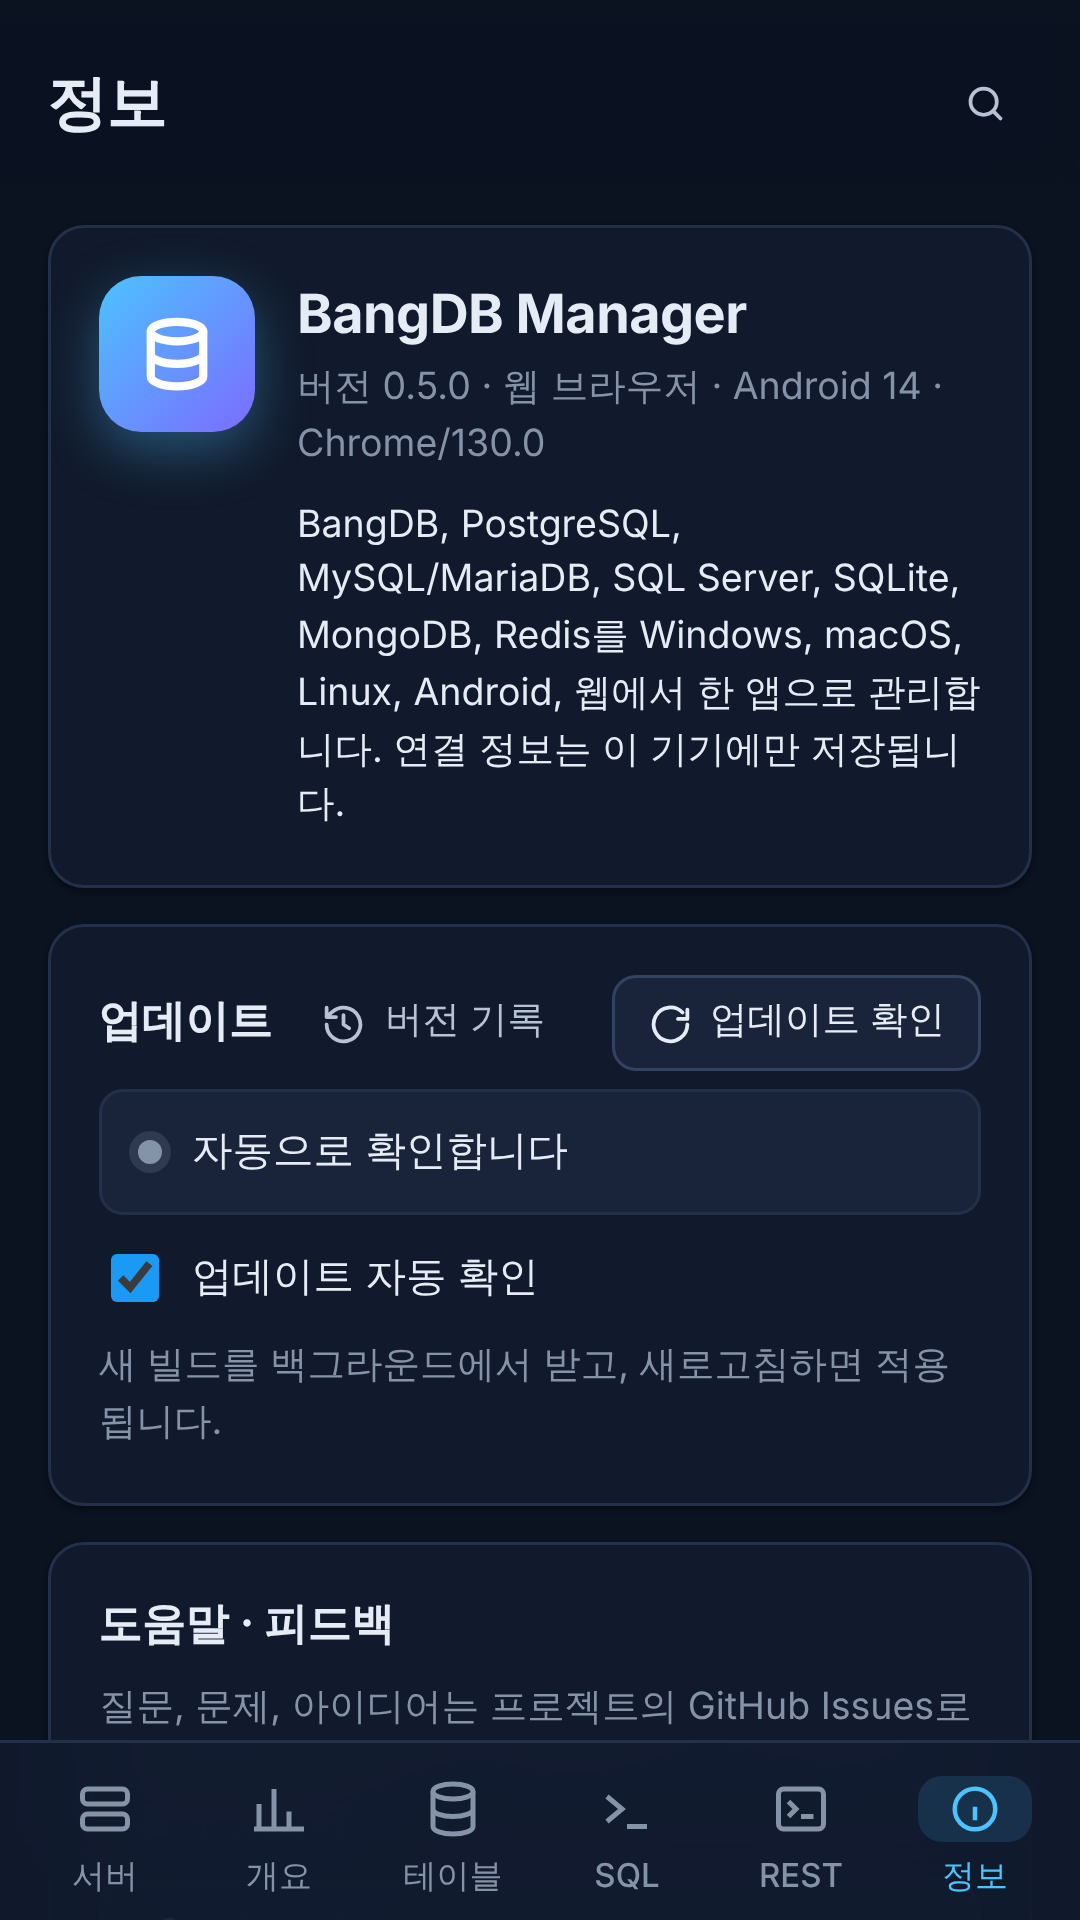
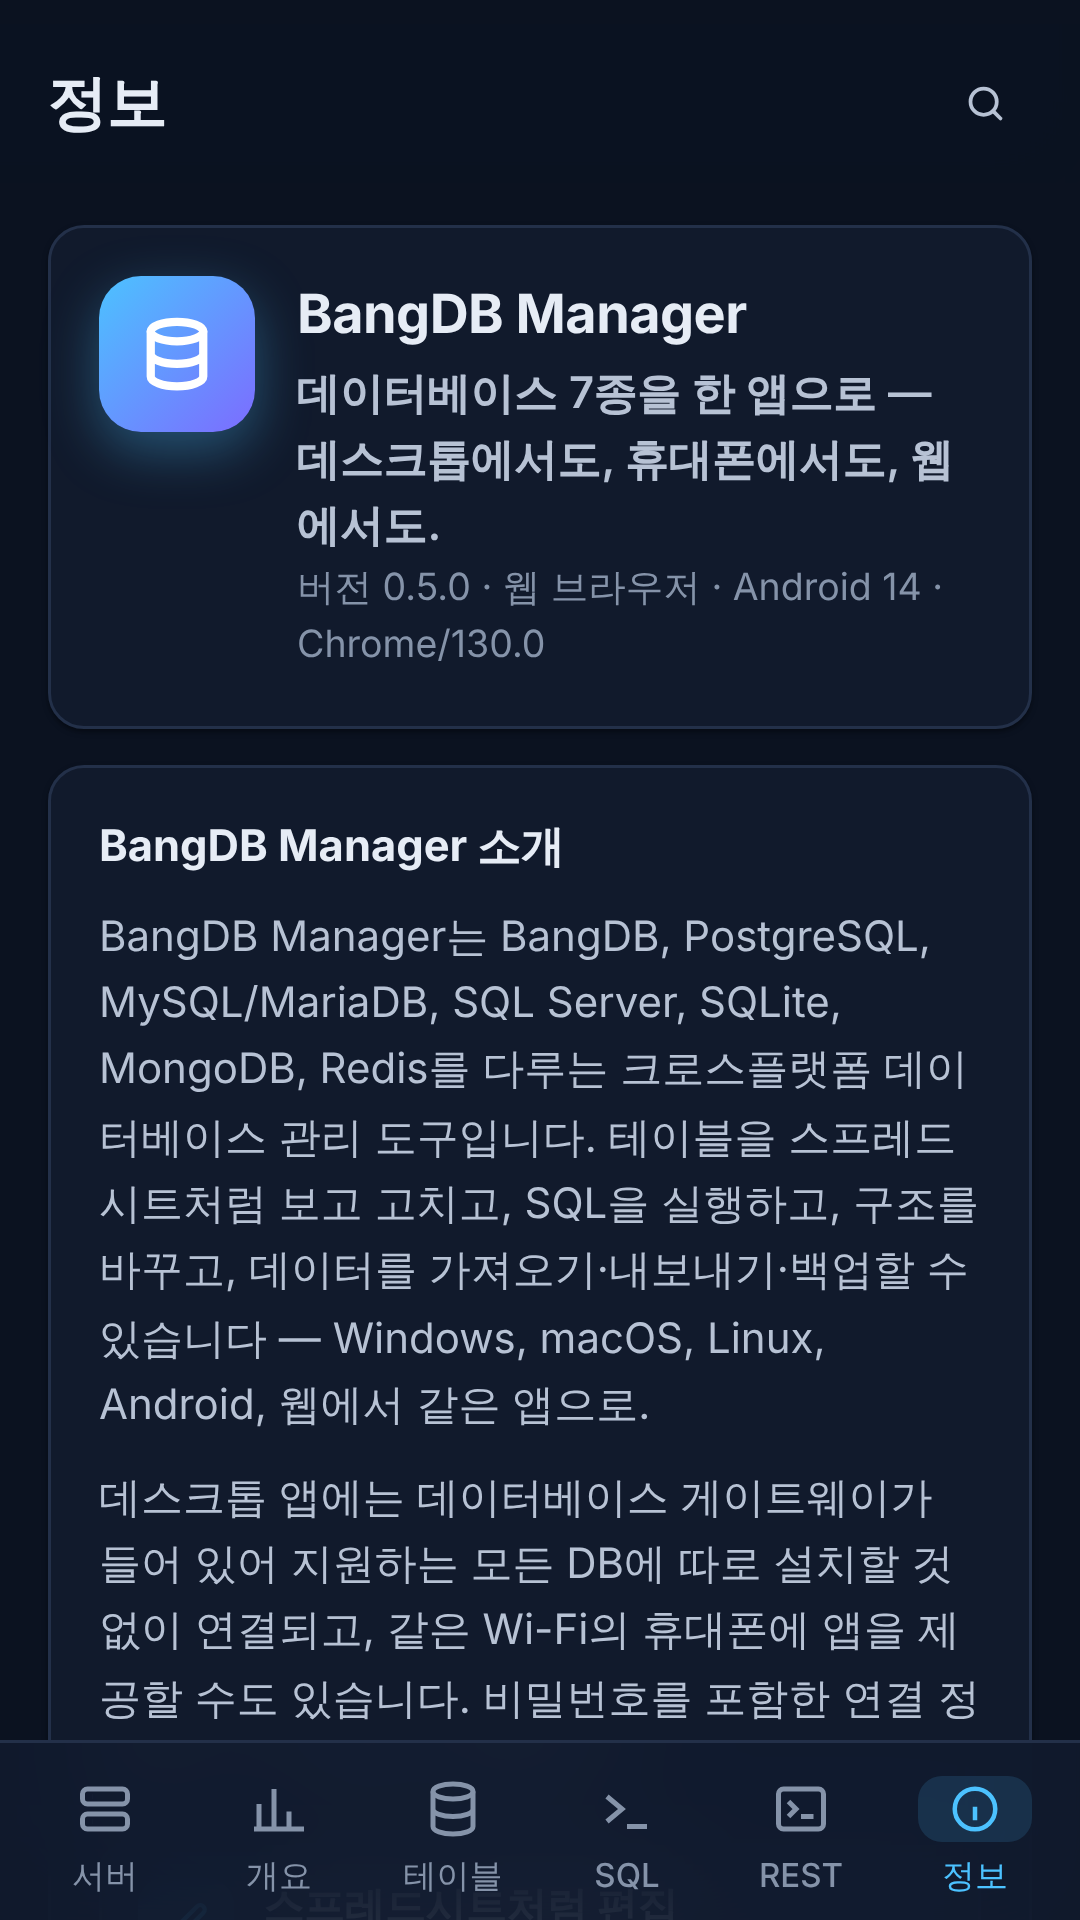
Describe the app on the About page, retake the store screenshots
- About: a tagline, two paragraphs on what the app does, eight feature
  tiles and the supported databases, in English with Korean text
- Store screenshot 08 is now this About screen (08-about.png) in both the
  English and Korean sets; all sets retaken with the current build
- README shows the English screenshots

Claude-Session: https://claude.ai/code/session_01A9NzuDcSjiniLXp6vE16Xp

diff --git a/src/i18n/ko/app.ts b/src/i18n/ko/app.ts
@@ -92,7 +92,6 @@ const ko: Record<string, string> = {
   "GitHub answered {status}": "GitHub 응답 {status}",
   "You are offline": "오프라인 상태입니다",
   "Version {v}": "버전 {v}",
-  "Manage BangDB, PostgreSQL, MySQL/MariaDB, SQL Server, SQLite, MongoDB and Redis from one app on Windows, macOS, Linux, Android and the web. Connection details stay on this device.": "BangDB, PostgreSQL, MySQL/MariaDB, SQL Server, SQLite, MongoDB, Redis를 Windows, macOS, Linux, Android, 웹에서 한 앱으로 관리합니다. 연결 정보는 이 기기에만 저장됩니다.",
   "Help & feedback": "도움말 · 피드백",
   "Questions, problems and ideas go to the project's GitHub Issues, where they are answered in public so others can find them too.": "질문, 문제, 아이디어는 프로젝트의 GitHub Issues로 보내 주세요. 공개적으로 답변하므로 다른 사람도 찾아볼 수 있습니다.",
   "Browse issues": "이슈 보기",
@@ -181,5 +180,24 @@ const ko: Record<string, string> = {
   "Some items are not objects": "객체가 아닌 항목이 있습니다",
   "Reading {table}…": "{table} 읽는 중…",
   "{table}: {n} rows": "{table}: {n}행",
+  "One app for seven databases — on your desktop, your phone and the web.": "데이터베이스 7종을 한 앱으로 — 데스크톱에서도, 휴대폰에서도, 웹에서도.",
+  "About BangDB Manager": "BangDB Manager 소개",
+  "BangDB Manager is a cross-platform database manager for BangDB, PostgreSQL, MySQL/MariaDB, SQL Server, SQLite, MongoDB and Redis. Browse and edit tables like a spreadsheet, run SQL, change schemas, and import, export and back up your data — with the same app on Windows, macOS, Linux, Android and the web.": "BangDB Manager는 BangDB, PostgreSQL, MySQL/MariaDB, SQL Server, SQLite, MongoDB, Redis를 다루는 크로스플랫폼 데이터베이스 관리 도구입니다. 테이블을 스프레드시트처럼 보고 고치고, SQL을 실행하고, 구조를 바꾸고, 데이터를 가져오기·내보내기·백업할 수 있습니다 — Windows, macOS, Linux, Android, 웹에서 같은 앱으로.",
+  "The desktop app has a database gateway built in, so every supported database connects without installing anything else, and it can serve the app to phones on the same Wi-Fi. Connection details, including passwords, are stored only on this device.": "데스크톱 앱에는 데이터베이스 게이트웨이가 들어 있어 지원하는 모든 DB에 따로 설치할 것 없이 연결되고, 같은 Wi-Fi의 휴대폰에 앱을 제공할 수도 있습니다. 비밀번호를 포함한 연결 정보는 이 기기에만 저장됩니다.",
+  "Spreadsheet-style editing": "스프레드시트처럼 편집",
+  "Edit cells in place, add and delete rows, and save everything in one transaction.": "셀을 바로 고치고, 행을 추가·삭제하고, 한 트랜잭션으로 모두 저장합니다.",
+  "A schema panel, run the statement at the cursor, EXPLAIN, parameters, history and exports.": "스키마 패널, 커서 위치 문장 실행, EXPLAIN, 파라미터, 기록, 내보내기.",
+  "Schema tools": "구조 편집",
+  "Create tables and views, change columns and indexes, and read the DDL.": "테이블·뷰를 만들고, 컬럼·인덱스를 바꾸고, DDL을 봅니다.",
+  "Import, export and back up": "가져오기·내보내기·백업",
+  "CSV, JSON and SQL in and out, and full dumps that stay fast on big tables.": "CSV·JSON·SQL 가져오기와 내보내기, 큰 테이블도 빠른 전체 덤프.",
+  "MongoDB and Redis": "MongoDB와 Redis",
+  "Collections, documents and aggregation; a key browser with an editor for every type.": "컬렉션·문서·집계, 그리고 타입별 편집기가 있는 키 브라우저.",
+  "Jump to any table, server or page with Ctrl/⌘+K.": "Ctrl/⌘+K로 테이블·서버·페이지로 바로 이동합니다.",
+  "Runs everywhere": "어디서나 실행",
+  "Windows, macOS, Linux, Android and the browser — in English or Korean, light or dark.": "Windows, macOS, Linux, Android, 브라우저 — 영어·한국어, 라이트·다크.",
+  "Always up to date": "늘 최신 버전",
+  "Automatic updates, release notes and earlier versions in the version history.": "자동 업데이트, 릴리즈 노트, 버전 기록의 이전 버전.",
+  "Supported databases": "지원 데이터베이스",
 };
 export default ko;

diff --git a/src/pages/AboutPage.tsx b/src/pages/AboutPage.tsx
@@ -3,12 +3,25 @@ import { Link, useLocation } from 'react-router-dom';
 import { DEFAULT_ENDPOINTS, GO_KEYS, REST_KEYS } from '../api/endpoints';
 import { APP_VERSION, PLATFORM_LABEL, REPO_URL, SPONSOR_URL, openExternal, platform, systemLine } from '../appinfo';
 import { FeedbackModal } from '../components/Feedback';
-import { Icons } from '../components/kinds';
+import { Icons, KindBadge, KIND_STYLE } from '../components/kinds';
+import type { ServerKind } from '../api/types';
 import { MOD_KEY, TopBar } from '../components/Layout';
 import type { FeedbackKind } from '../feedback';
 import { LANGS, setLang, t, tx, useLang } from '../i18n';
 import { setTheme, useTheme, type Theme } from '../theme';
 import { applyUpdate, checkForUpdates, setAutoUpdate, useUpdate, type UpdateState } from '../update';
+
+/** What the app does, for the About page (and the store listing screenshot of it). */
+const FEATURES: { icon: JSX.Element; title: string; text: string }[] = [
+  { icon: Icons.edit, title: tx('Spreadsheet-style editing'), text: tx('Edit cells in place, add and delete rows, and save everything in one transaction.') },
+  { icon: Icons.code, title: tx('SQL console'), text: tx('A schema panel, run the statement at the cursor, EXPLAIN, parameters, history and exports.') },
+  { icon: Icons.db, title: tx('Schema tools'), text: tx('Create tables and views, change columns and indexes, and read the DDL.') },
+  { icon: Icons.copy, title: tx('Import, export and back up'), text: tx('CSV, JSON and SQL in and out, and full dumps that stay fast on big tables.') },
+  { icon: Icons.server, title: tx('MongoDB and Redis'), text: tx('Collections, documents and aggregation; a key browser with an editor for every type.') },
+  { icon: Icons.search, title: tx('Quick open'), text: tx('Jump to any table, server or page with Ctrl/⌘+K.') },
+  { icon: Icons.globe, title: tx('Runs everywhere'), text: tx('Windows, macOS, Linux, Android and the browser — in English or Korean, light or dark.') },
+  { icon: Icons.history, title: tx('Always up to date'), text: tx('Automatic updates, release notes and earlier versions in the version history.') }
+];
 
 export default function AboutPage() {
   const theme = useTheme();
@@ -23,8 +36,30 @@ export default function AboutPage() {
         <span className="mark">{Icons.logo}</span>
         <div className="grow">
           <h2>BangDB Manager</h2>
+          <div className="tagline">{t('One app for seven databases — on your desktop, your phone and the web.')}</div>
           <div className="muted small">{t('Version {v}', { v: APP_VERSION })} · {t(PLATFORM_LABEL[platform()])} · {systemLine()}</div>
-          <p className="small" style={{ margin: '8px 0 0' }}>{t('Manage BangDB, PostgreSQL, MySQL/MariaDB, SQL Server, SQLite, MongoDB and Redis from one app on Windows, macOS, Linux, Android and the web. Connection details stay on this device.')}</p>
+        </div>
+      </div>
+
+      <div className="card about-app">
+        <b>{t('About BangDB Manager')}</b>
+        <p>{t('BangDB Manager is a cross-platform database manager for BangDB, PostgreSQL, MySQL/MariaDB, SQL Server, SQLite, MongoDB and Redis. Browse and edit tables like a spreadsheet, run SQL, change schemas, and import, export and back up your data — with the same app on Windows, macOS, Linux, Android and the web.')}</p>
+        <p>{t('The desktop app has a database gateway built in, so every supported database connects without installing anything else, and it can serve the app to phones on the same Wi-Fi. Connection details, including passwords, are stored only on this device.')}</p>
+        <div className="feature-grid">
+          {FEATURES.map((f) => (
+            <div key={f.title} className="feature">
+              <span className="fi">{f.icon}</span>
+              <div><b>{t(f.title)}</b><span>{t(f.text)}</span></div>
+            </div>
+          ))}
+        </div>
+        <div className="supported">
+          <span className="muted small">{t('Supported databases')}</span>
+          <div className="kinds">
+            {(['go', 'rest', 'postgres', 'mysql', 'mssql', 'sqlite', 'mongodb', 'redis'] as ServerKind[]).map((k) => (
+              <span key={k} className="kindchip"><KindBadge kind={k} small />{KIND_STYLE[k].label}</span>
+            ))}
+          </div>
         </div>
       </div>
 

diff --git a/src/styles.css b/src/styles.css
@@ -437,6 +437,17 @@ table.data td .null { color: var(--muted); font-style: italic; }
 .about-hero .mark { width: 52px; height: 52px; border-radius: 14px; flex-shrink: 0; background: linear-gradient(135deg, var(--accent), #7c6cff); box-shadow: 0 6px 18px var(--accent-ring); display: grid; place-items: center; color: #fff; }
 .about-hero .mark svg { width: 30px; height: 30px; }
 .about-hero h2 { font-size: 18px; margin-bottom: 2px; }
+.about-hero .tagline { font-weight: 600; color: var(--text2); margin-bottom: 2px; }
+.about-app > p { font-size: 14px; line-height: 1.6; color: var(--text2); margin: 0 0 8px; }
+.feature-grid { display: grid; grid-template-columns: repeat(auto-fill, minmax(250px, 1fr)); gap: 10px; margin: 14px 0; }
+.feature { display: flex; gap: 10px; align-items: flex-start; padding: 10px 12px; border-radius: var(--r-sm); background: var(--bg3); border: 1px solid var(--border); }
+.feature .fi { width: 32px; height: 32px; flex-shrink: 0; border-radius: 9px; display: grid; place-items: center; color: var(--accent); background: var(--accent-soft); }
+.feature .fi svg { width: 17px; height: 17px; }
+.feature b { display: block; font-size: 13.5px; margin-bottom: 2px; }
+.feature span:not(.fi) { display: block; font-size: 12.5px; color: var(--muted); line-height: 1.45; }
+.supported { display: flex; flex-direction: column; gap: 8px; }
+.supported .kinds { display: flex; flex-wrap: wrap; gap: 6px; }
+.kindchip { display: inline-flex; align-items: center; gap: 7px; padding: 3px 10px 3px 3px; border-radius: 10px; border: 1px solid var(--border); background: var(--bg3); font-size: 12.5px; color: var(--text2); }
 .settings-grid { display: grid; grid-template-columns: max-content auto; gap: 8px 14px; align-items: center; justify-content: start; }
 .actions-grid { display: grid; grid-template-columns: repeat(auto-fill, minmax(170px, 1fr)); gap: 8px; }
 .actions-grid .btn { justify-content: flex-start; }

diff --git a/README.md b/README.md
@@ -5,7 +5,7 @@
 
 > *A cross-platform database manager for BangDB, PostgreSQL, MySQL/MariaDB, SQL Server, SQLite, MongoDB and Redis — edit tables like a spreadsheet, run SQL, change schemas, import, export and back up, with the same app on Windows, macOS, Linux, Android and the web.* ([English summary](#english))
 
-![BangDB Manager — 테이블 데이터를 바로 편집](./screenshots/ko/desktop-1920x1080/01-table-data.png)
+![BangDB Manager — 테이블 데이터를 바로 편집](./screenshots/en/desktop-1920x1080/01-table-data.png)
 
 ## 다운로드
 
@@ -41,21 +41,21 @@
 
 | | |
 |---|---|
-| ![SQL 콘솔](./screenshots/ko/desktop-1920x1080/02-sql-console.png) | ![테이블 목록](./screenshots/ko/desktop-1920x1080/03-tables.png) |
+| ![SQL 콘솔](./screenshots/en/desktop-1920x1080/02-sql-console.png) | ![테이블 목록](./screenshots/en/desktop-1920x1080/03-tables.png) |
 | SQL 콘솔 — 스키마 패널, 문장 단위 실행, 결과 정렬 | 테이블 목록 — 행 수(큰 테이블은 ≈ 추정), 뷰 |
-| ![빠른 열기](./screenshots/ko/desktop-1920x1080/04-quick-open.png) | ![구조 편집](./screenshots/ko/desktop-1920x1080/05-schema.png) |
+| ![빠른 열기](./screenshots/en/desktop-1920x1080/04-quick-open.png) | ![구조 편집](./screenshots/en/desktop-1920x1080/05-schema.png) |
 | 빠른 열기 (Ctrl/⌘+K) | 구조 편집 — 컬럼·제약 조건 |
-| ![서버 목록](./screenshots/ko/desktop-1920x1080/06-servers.png) | ![서버 개요](./screenshots/ko/desktop-1920x1080/07-server-overview.png) |
+| ![서버 목록](./screenshots/en/desktop-1920x1080/06-servers.png) | ![서버 개요](./screenshots/en/desktop-1920x1080/07-server-overview.png) |
 | 서버 목록 — 종류별 아이콘, 연결 상태 | BangDB 서버 개요 — 통계, 덤프/복원, 유지 보수 |
-| ![업데이트·문의·후원](./screenshots/ko/desktop-1920x1080/08-about-updates-support.png) | ![버전 기록](./screenshots/ko/desktop-1920x1080/09-version-history.png) |
-| 정보 — 업데이트, 문의, 후원 | 버전 기록 — 릴리즈 노트, 이전 버전 설치 |
+| ![앱 소개](./screenshots/en/desktop-1920x1080/08-about.png) | ![버전 기록](./screenshots/en/desktop-1920x1080/09-version-history.png) |
+| 정보 — 앱 소개, 기능, 지원 DB, 업데이트 | 버전 기록 — 릴리즈 노트, 이전 버전 설치 |
 
 <p>
-<img src="./screenshots/ko/android-phone-1080x1920/01-servers.png" width="19%" alt="서버 목록 (휴대폰)">
-<img src="./screenshots/ko/android-phone-1080x1920/02-table-data.png" width="19%" alt="테이블 데이터 (휴대폰)">
-<img src="./screenshots/ko/android-phone-1080x1920/03-sql-console.png" width="19%" alt="SQL 콘솔 (휴대폰)">
-<img src="./screenshots/ko/android-phone-1080x1920/05-quick-open.png" width="19%" alt="빠른 열기 (휴대폰)">
-<img src="./screenshots/ko/android-phone-1080x1920/06-about.png" width="19%" alt="정보 (휴대폰)">
+<img src="./screenshots/en/android-phone-1080x1920/01-servers.png" width="19%" alt="서버 목록 (휴대폰)">
+<img src="./screenshots/en/android-phone-1080x1920/02-table-data.png" width="19%" alt="테이블 데이터 (휴대폰)">
+<img src="./screenshots/en/android-phone-1080x1920/03-sql-console.png" width="19%" alt="SQL 콘솔 (휴대폰)">
+<img src="./screenshots/en/android-phone-1080x1920/05-quick-open.png" width="19%" alt="빠른 열기 (휴대폰)">
+<img src="./screenshots/en/android-phone-1080x1920/06-about.png" width="19%" alt="정보 (휴대폰)">
 </p>
 
 스토어·앱 소개 사이트 등록용 원본 이미지는 [`screenshots/`](./screenshots) 에 있습니다 — 한국어(`ko/`)·영어(`en/`) 화면 각각 데스크톱 1920×1080, 휴대폰 1080×1920, 그리고 기능 그래픽 1024×500.
@@ -90,8 +90,6 @@
 - **후원** — 도움이 되었다면 [GitHub Sponsors](https://github.com/sponsors/knoxxr) 로 개발을 후원할 수 있습니다 (앱의 정보 화면, 데스크톱 도움말 메뉴, 저장소의 Sponsor 버튼).
 
 ## English
-
-![BangDB Manager](./screenshots/en/desktop-1920x1080/01-table-data.png)
 
 **BangDB Manager** is a free database manager (source on GitHub) for **BangDB, PostgreSQL, MySQL/MariaDB, SQL Server, SQLite, MongoDB and Redis**. One app runs on Windows, macOS, Linux, Android and in the browser (installable PWA).
 

diff --git a/CHANGELOG.md b/CHANGELOG.md
@@ -1,5 +1,9 @@
 ## Unreleased — 한국어/영어 전환, 업데이트·버전 관리, 문의·후원, 빠른 이동, 테마, 성능 개선
 
+**정보 화면**
+- 앱 소개 추가: 한 줄 소개, 앱 설명 두 문단, 주요 기능 8가지, 지원 데이터베이스 (영어·한국어)
+- 스토어용 캡처 08번을 이 소개 화면(`08-about.png`)으로 교체, README 스크린샷은 영어 화면으로
+
 **저장소 이전**
 - 저장소가 `knoxxr/BangDB.Manager` 에서 `MinaryHub/BangDB.Manager` 로 옮겨짐: 업데이트 확인·자동 업데이트(electron-updater 배포 설정)·버전 기록·이슈 문의·릴리즈 노트 링크가 새 주소를 씀. 이전 버전 앱은 GitHub 의 이전 주소 리디렉션으로 계속 업데이트를 받음
 - 릴리즈가 끝나면 MinaryHub 사이트에 바로 갱신을 요청(`SITE_DISPATCH_TOKEN` 이 있을 때)

diff --git a/screenshots/README.md b/screenshots/README.md
@@ -21,7 +21,7 @@
 | 05 | 구조 편집 — 컬럼·제약 조건 | 라이트 |
 | 06 | 서버 목록 — 4종류 서버, 연결 상태 | 다크 |
 | 07 | BangDB 서버 개요 — 통계, 덤프/복원, 유지 보수 | 다크 |
-| 08 | 정보 — 업데이트, 문의, 후원 | 라이트 |
+| 08 | 정보 — 앱 소개, 주요 기능, 지원 데이터베이스, 업데이트 상태 | 라이트 |
 | 09 | 버전 기록 — 릴리즈 노트, 이전 버전 설치 | 다크 |
 | 10 | GitHub 이슈로 문의하기 | 라이트 |
 
